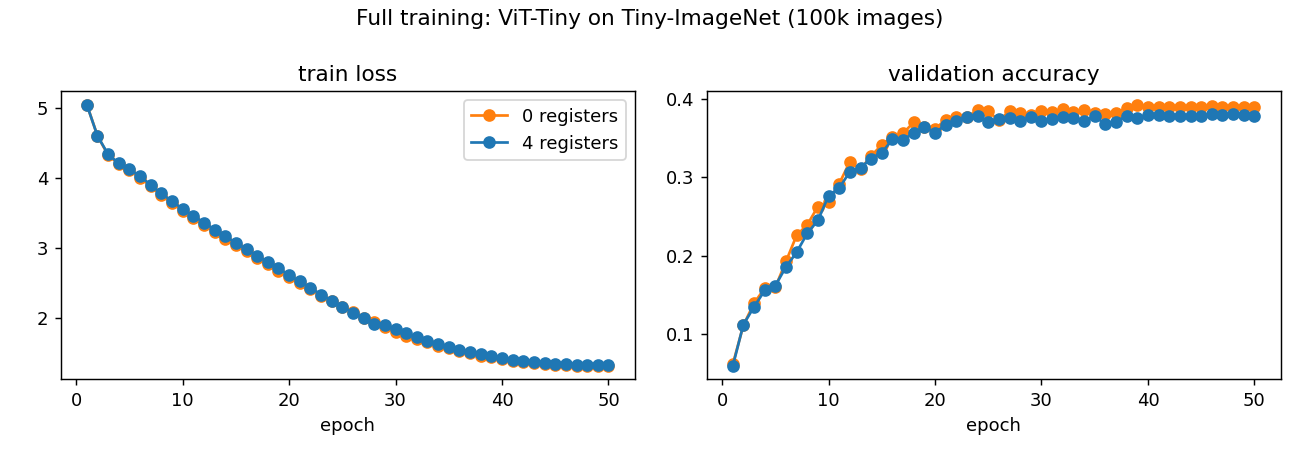
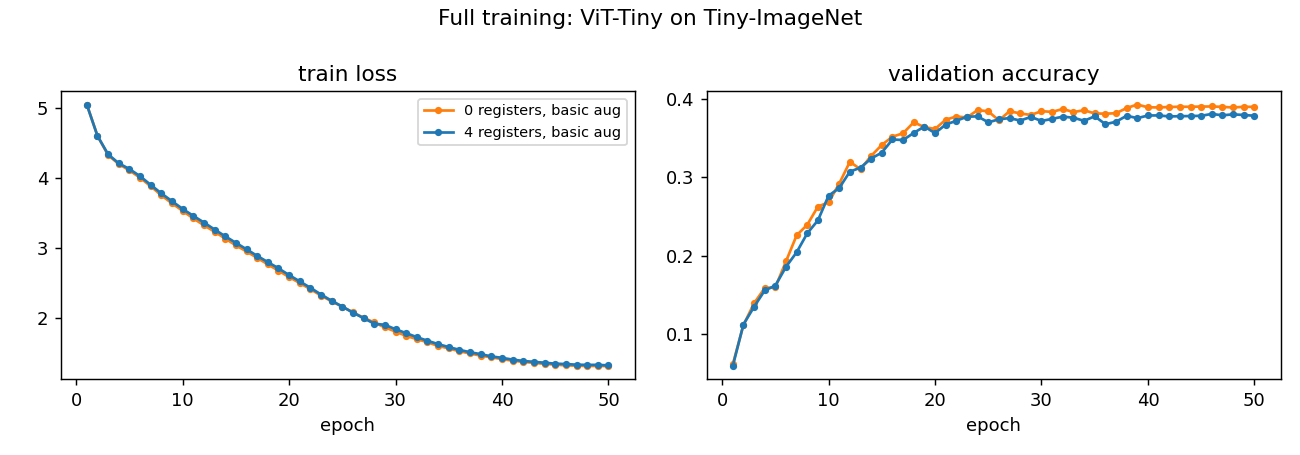
Final training results with overfitting details

diff --git a/scripts/summarise_training.py b/scripts/summarise_training.py
@@ -122,12 +122,15 @@ def main() -> None:
         "model, shorter training); only the with/without-registers differences are. Each setting was "
         "trained once (seed 0), so differences of a few tenths of a point may be random variation."
     )
-    notes.append(
+    overfitting_note = (
         "How to read the overfitting columns: a large gap between train and validation accuracy, and a final "
-        "validation loss well above its lowest value, both mean the model is memorising the training images. "
-        "With strong augmentation, train accuracy is measured on mixed (MixUp/CutMix) images, so it is only "
-        "roughly comparable with the basic runs; the validation loss columns are directly comparable."
+        "validation loss well above its lowest value, both mean the model is memorising the training images."
     )
+    if any(r["aug"] == "strong" for r in runs):
+        overfitting_note += (" With strong augmentation, train accuracy is measured on mixed (MixUp/CutMix) "
+                             "images, so it is only roughly comparable with the basic runs; the validation loss "
+                             "columns are directly comparable.")
+    notes.append(overfitting_note)
 
     summary = "\n\n".join([
         "Validation accuracy after the last epoch (we do not pick the best epoch, because the validation "

diff --git a/README.md b/README.md
@@ -211,12 +211,14 @@ ViT-Tiny trained on all 100,000 Tiny-ImageNet training images for 50 epochs, wit
 <!-- FULL_TRAINING_START -->
 Validation accuracy after the last epoch (we do not pick the best epoch, because the validation set is also our test set).
 
-| Model | Registers | Parameters | Epochs | Val accuracy | Val loss | Training time (min) |
-|---|---|---|---|---|---|---|
-| ViT-Tiny | 0 | 5,427,080 | 50 | **38.99%** | 3.537 | 75 |
-| ViT-Tiny | 4 | 5,427,848 | 50 | **37.86%** | 3.592 | 75 |
+| Model | Augmentation | Registers | Train images | Epochs | Val accuracy | Train accuracy | Val loss (final / lowest) | Time (min) |
+|---|---|---|---|---|---|---|---|---|
+| ViT-Tiny | basic | 0 | 100,000 | 50 | **38.99%** | 91.6% | 3.537 / 3.225 | 75 |
+| ViT-Tiny | basic | 4 | 100,000 | 50 | **37.86%** | 91.5% | 3.592 / 3.246 | 75 |
 
-Effect of adding registers: **-1.13 percentage points**. Paper (Table 2a, ImageNet top-1): DeiT-III 84.7 → 84.7, OpenCLIP 78.2 → 78.1, DINOv2 84.3 → 84.8, i.e. registers do not hurt accuracy. Our absolute accuracies are not comparable with the paper's (different dataset, much smaller model, shorter training); only the with/without-registers difference is. Each setting was trained once (seed 0), so differences of a few tenths of a point may be random variation.
+- Effect of adding registers (basic augmentation): **-1.13 points**.
+- Paper (Table 2a, ImageNet top-1): DeiT-III 84.7 → 84.7, OpenCLIP 78.2 → 78.1, DINOv2 84.3 → 84.8, i.e. registers do not hurt accuracy. Our absolute accuracies are not comparable with the paper's (different dataset, much smaller model, shorter training); only the with/without-registers differences are. Each setting was trained once (seed 0), so differences of a few tenths of a point may be random variation.
+- How to read the overfitting columns: a large gap between train and validation accuracy, and a final validation loss well above its lowest value, both mean the model is memorising the training images.
 
 ![Full training runs](results/figures/full_training_runs.png)
 <!-- FULL_TRAINING_END -->
@@ -228,7 +230,7 @@ Effect of adding registers: **-1.13 percentage points**. Paper (Table 2a, ImageN
 - **Compared with the paper:** at large scale the paper finds registers change ImageNet accuracy by −0.1 to +0.5 points (Table 2a). Our drop is larger, so this claim is only **partly** reproduced: there is no big accuracy cost, but we cannot rule out a small one.
 - **Why we can't say more yet:** each setting was trained once (seed 0), and the register run was paused and resumed once after epoch 14, which changes the order of the training images afterwards. A 1-point gap can come from this kind of randomness alone; training a second seed of each setting would tell us.
 - **A possible explanation (to be tested):** the paper reports that artifacts only appear in large models trained for a long time. A ViT-Tiny on 64x64 images may have no artifacts at all, in which case registers have no job to do and only add four extra tokens to the attention. In Week 4 we will measure our trained models the same way as Part A to check whether they contain high-norm tokens.
-- **Both models overfit:** training accuracy (91.5%) is far above validation accuracy (38–39%). This is typical for small ViTs trained from scratch on 100k images; stronger augmentation (MixUp, CutMix, RandAugment) would likely reduce it. We have added these as an option and will use them for the Week 4 runs. Since both runs here use identical settings, the comparison between them stays fair.
+- **Both models overfit:** training accuracy (91.5%) is far above validation accuracy (38–39%), and validation loss is lowest around epoch 18 (3.23) before rising to 3.54 by epoch 50. This is typical for small ViTs trained from scratch on 100k images; stronger augmentation (MixUp, CutMix, RandAugment) would likely reduce it. We have added these as an option and will use them for the Week 4 runs. Since both runs here use identical settings, the comparison between them stays fair.
 
 ## 6. Part A: reproducing the paper's findings on pretrained DINOv2
 

diff --git a/results/runs/full_training_summary.md b/results/runs/full_training_summary.md
@@ -1,10 +1,12 @@
 Validation accuracy after the last epoch (we do not pick the best epoch, because the validation set is also our test set).
 
-| Model | Registers | Parameters | Epochs | Val accuracy | Val loss | Training time (min) |
-|---|---|---|---|---|---|---|
-| ViT-Tiny | 0 | 5,427,080 | 50 | **38.99%** | 3.537 | 75 |
-| ViT-Tiny | 4 | 5,427,848 | 50 | **37.86%** | 3.592 | 75 |
+| Model | Augmentation | Registers | Train images | Epochs | Val accuracy | Train accuracy | Val loss (final / lowest) | Time (min) |
+|---|---|---|---|---|---|---|---|---|
+| ViT-Tiny | basic | 0 | 100,000 | 50 | **38.99%** | 91.6% | 3.537 / 3.225 | 75 |
+| ViT-Tiny | basic | 4 | 100,000 | 50 | **37.86%** | 91.5% | 3.592 / 3.246 | 75 |
 
-Effect of adding registers: **-1.13 percentage points**. Paper (Table 2a, ImageNet top-1): DeiT-III 84.7 → 84.7, OpenCLIP 78.2 → 78.1, DINOv2 84.3 → 84.8, i.e. registers do not hurt accuracy. Our absolute accuracies are not comparable with the paper's (different dataset, much smaller model, shorter training); only the with/without-registers difference is. Each setting was trained once (seed 0), so differences of a few tenths of a point may be random variation.
+- Effect of adding registers (basic augmentation): **-1.13 points**.
+- Paper (Table 2a, ImageNet top-1): DeiT-III 84.7 → 84.7, OpenCLIP 78.2 → 78.1, DINOv2 84.3 → 84.8, i.e. registers do not hurt accuracy. Our absolute accuracies are not comparable with the paper's (different dataset, much smaller model, shorter training); only the with/without-registers differences are. Each setting was trained once (seed 0), so differences of a few tenths of a point may be random variation.
+- How to read the overfitting columns: a large gap between train and validation accuracy, and a final validation loss well above its lowest value, both mean the model is memorising the training images.
 
 ![Full training runs](results/figures/full_training_runs.png)
